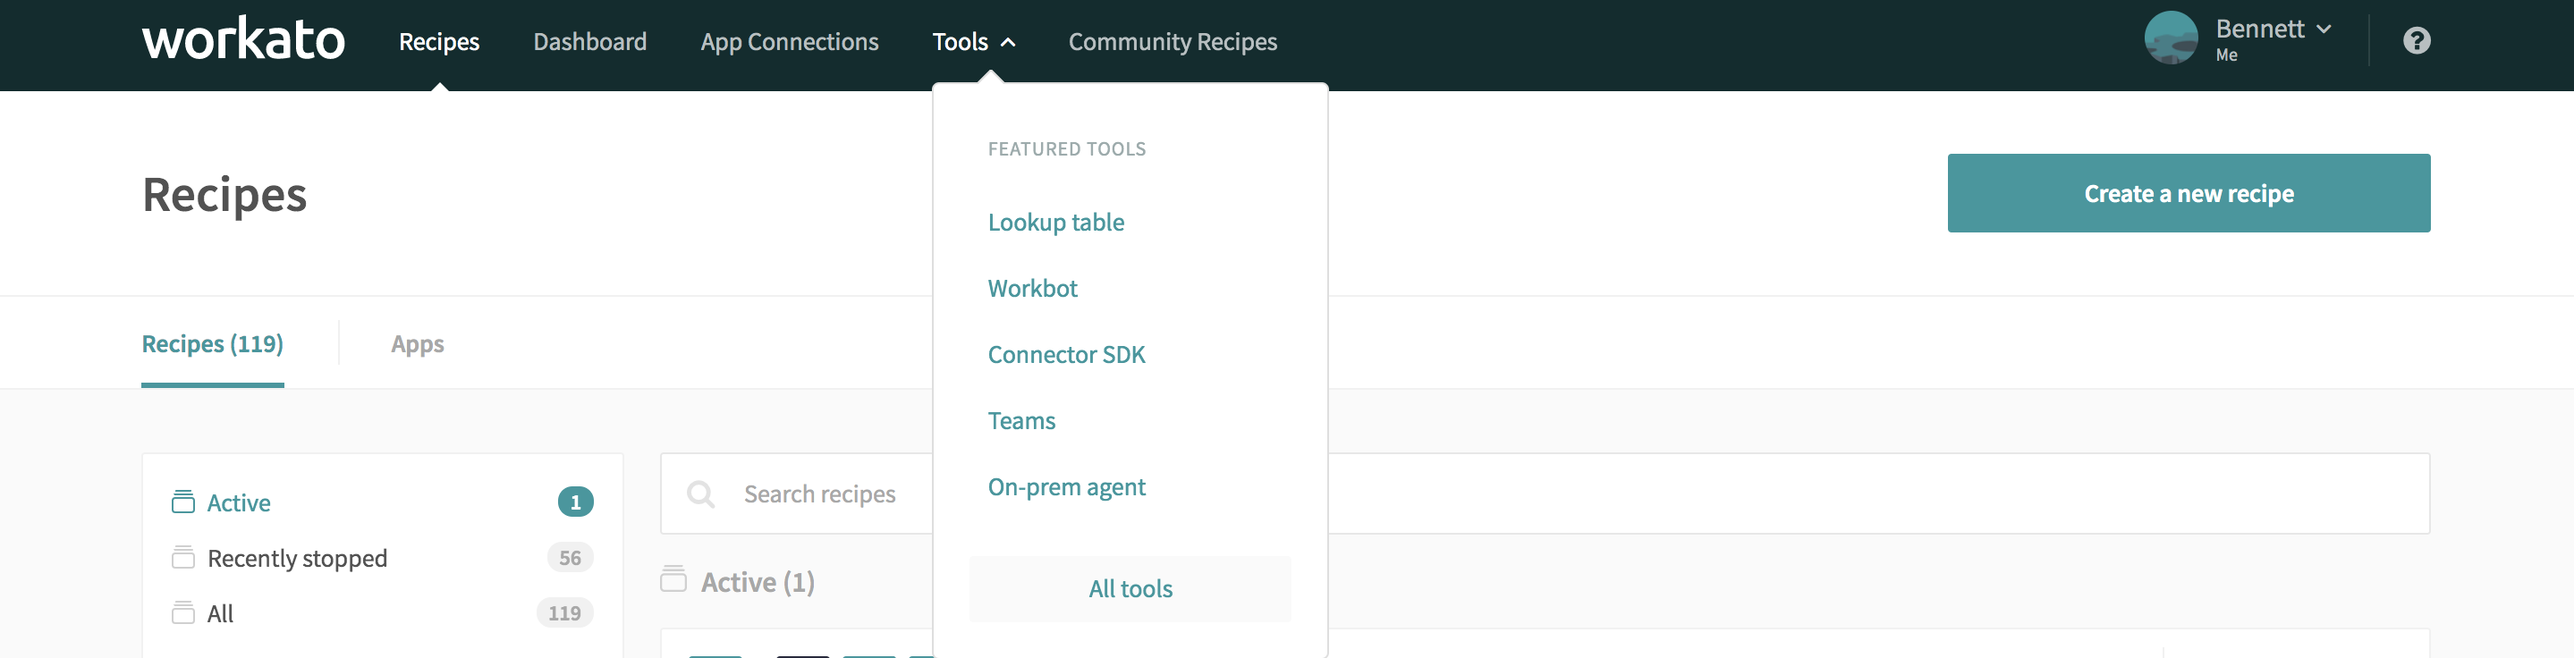
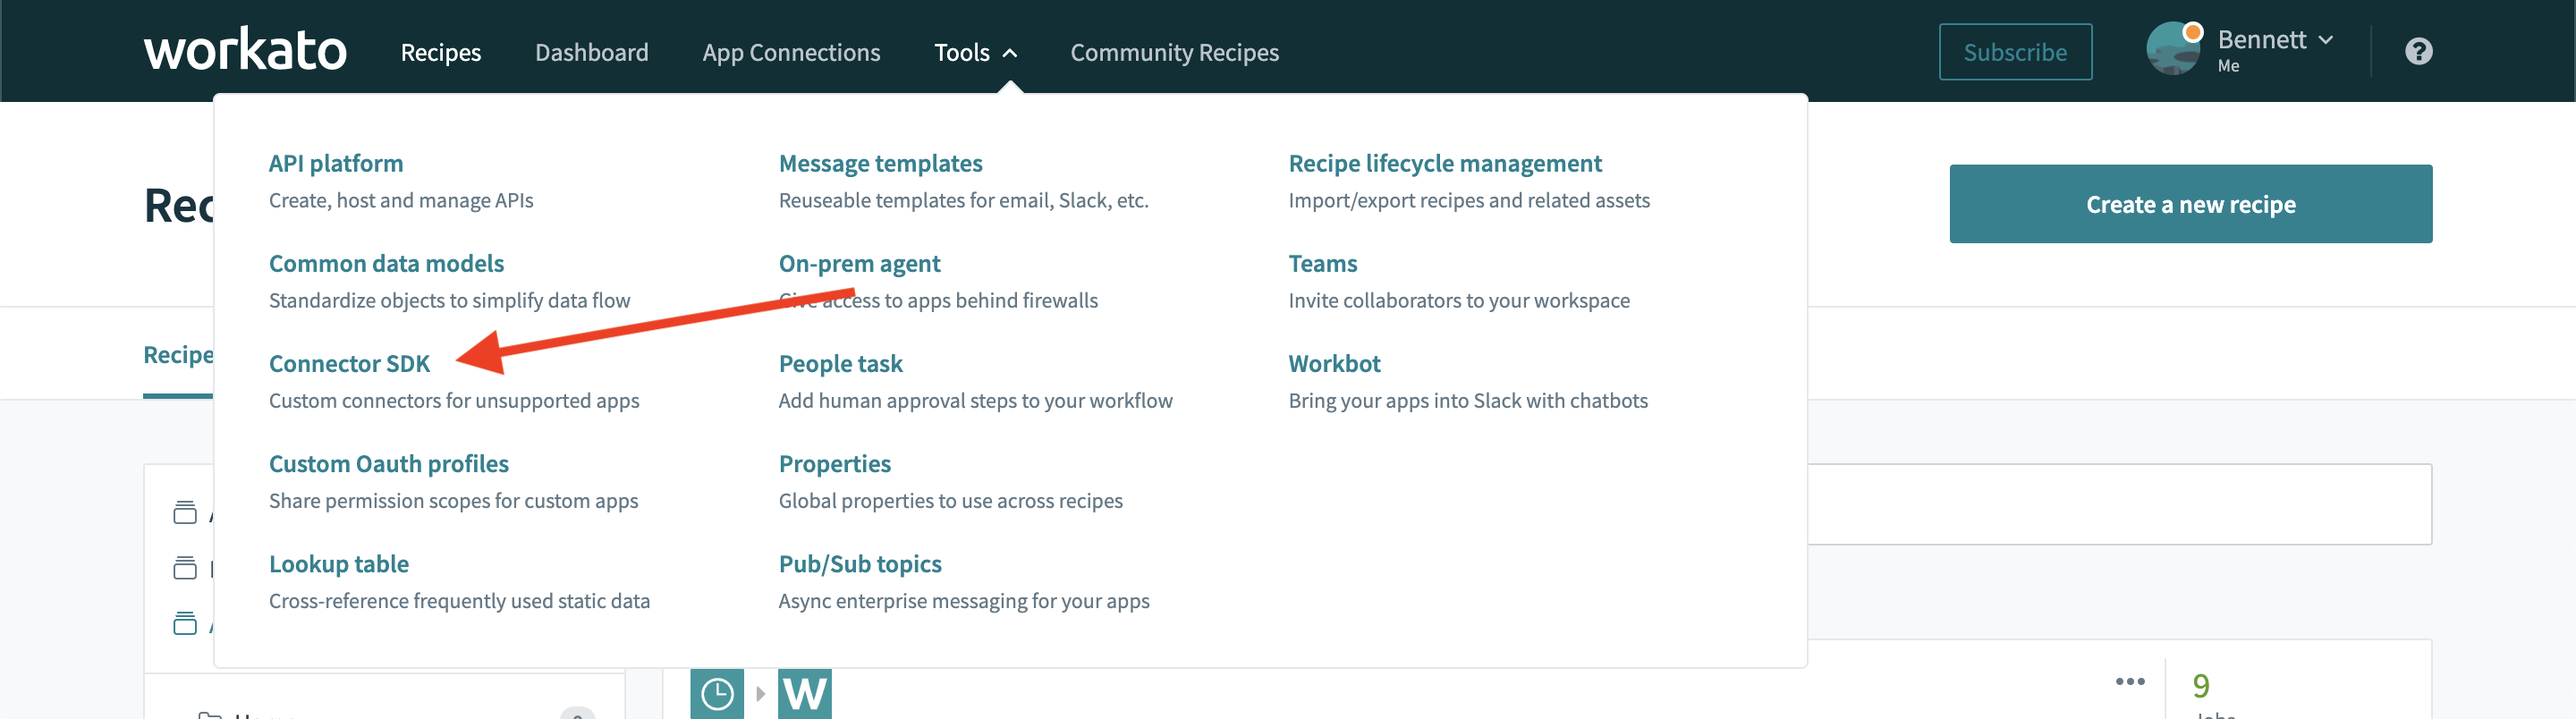
SDK versioning guide

diff --git a/developing-connectors/sdk-2/quick-Start.md b/developing-connectors/sdk-2/quick-Start.md
@@ -1,0 +1,132 @@
+---
+title: Developer program
+date: 2019-05-08 17:00:00 Z
+---
+# Using the Workato SDK Platform
+Workato's SDK platform has numerous features that enable you to build, test, develop and share your custom connector. In this article, we will be going through the basic functionalities of the platform and how you can leverage on different functionalities to make your connector development process smoother.  
+
+## Before you begin
+### Navigating to the SDK platform homepage
+In the main Workato recipes page, head over to the tools tab and click on connector SDK. This will take you to your personal registry of custom connectors - a page where you can see all custom connectors that you have built or cloned from others. If you're signed in, [click here](https://www.workato.com/custom_adapters) to be taken to that page.
+
+![Navigating to SDK](/assets/images/sdk/Navigating-to-SDK.png)
+*Located in the top navigation bar in Workato*
+
+### Creating a new custom connectors
+In the top right corner of the page, you'll see a button to create a new custom connector. Clicking this will take you to your new custom connector's home page. This page will be where you can begin writing custom connector code as well as find useful information about your connector such as the share links and version history.
+
+### Changing your connector title, description and logo
+When first creating your custom connector, it is given a default title, logo and empty description. You should populate these fields first to make it easier to search for your customer connector when looking through your personal registry in the future.
+
+Custom connector title changes can be done by clicking on the pencil icon next to the customer connector and editing the name in the box that appears. Saving your changes can be done by clicking the green tick when you are done. Clear any unsaved changes by clicking the grey cross instead.
+
+Custom connector logo changes can be done by clicking on the logo image. This should prompt your browser to open up a system upload window for you to select the logo you would want to upload. This logo will not only represent your custom connector in your personal registry but also show up as the logo when using your custom connector in recipes.
+
+Changing your description can be done by navigating to the `Settings` tab in your custom connector home page. This tab will contain information including a text input field for a description about your connector. This description will let others know more about your connector when they are deciding to clone your connector.
+
+## Introduction to version control
+Version control in the Workato SDK platform can be done directly through the UI. When you first enter a custom connector homepage, you are greeted with the source code of the latest version of the custom connector inside the code editor. This represents the latest source code that you or anyone with access in your workspace has worked on and committed into a version.
+
+Since the latest version of your custom connector may not be a version which you want your active recipes to be working off, you also have the ability to select a certain version of a custom connector in Workato to deploy and have custom connectors running off them. That way, you can have a stable version of your custom connector deployed and continue on developing before deploying the next version which you believe is stable.
+
+>You can always check the latest deployed version of a custom connector in the top right corner of a custom connector's homepage.
+
+### Editing the latest version
+The Workato SDK platform only allows you to edit the latest version of a custom connector's source code. By making changes directly in the code editor in "Source Code" tab, you are effectively making edits to the latest version. These changes will not be saved until you explicitly press the save changes button in the top left corner of the page or start debugging through the debugger console. When these changes are saved, the new custom connector source code is saved as a new latest version.
+
+### Deploying the latest version
+Workato only allows you to deploy the latest version as well. When you deploy a new version of a custom connector, this means that each recipe in your Workato account using this custom connector will begin using this version from the next job onwards. Be sure to do your relevant tests using the debugger console to make sure that your code is reliable before deploying it.
+
+Workato actively searches for any errors in your code and prevents you from deploying code with errors. This is to prevent any of your recipes from breaking. You'll be informed of the line of code which contains the error so you can jump to it and fix it.
+
+>When you first create your connector, you need to deploy a version before you can search for it while building a recipe.
+
+### Reverting to an old version
+In situations where you want to revert to an older version of your custom connector, you can easily go to the "Versions" tab of the custom connector homepage to view a table of versions. Clicking on any version will bring you to a page which contains a snapshot of the source code at that point in time as well as a snapshot of the triggers and actions based on that source code.
+
+![View old version](/assets/images/sdk/viewing-old-version.gif)
+*Click on a specific version to view details about it*
+
+When viewing a specific version, you are given the ability to restore your custom connector to this version by clicking "Restore this version" in the top right of the page. This restores the version by making a copy of that version's source code as a new latest version. You'll be able to begin editing from there or immediately deploy this version.
+
+## Using the debugger console
+Below the code editor on the "Source code" tab, you'll see our debugger console which allows you to test various portions of your custom connector before deploying it.
+
+![Debugger console](/assets/images/sdk/debugger-console.png)
+*Debugger console*
+
+This debugger console allows you to run tests on the latest version of your custom connector code. Any unsaved changes that are currently in the code editor will result in the custom connector creating a new latest version before running any tests are executed. There will be a notification to tell you when this is the case.
+
+In cases when there is an error in your latest version, the debugger console will be hidden instead. Fix the error in the line of code stated so you can start testing again.
+
+![Debugger console with error](/assets/images/sdk/debugger-console-with-error.png)
+*Debugger console when there is a syntax error*
+
+### Testing a connection
+When using the debugger console, the first thing you need to do is establish a successful connection. After defining the connection inside the source code, you'll be test this connection immediately in the connection tab of the debugger console.
+
+![Establishing connection](/assets/images/sdk/establishing-connection.gif)
+*Successfully establishing a connection*
+
+When the connection you make is successful, the debugger will immediately display a "Connection success" message to let you know. This connection you just established will be used as the connection for any tests that you execute in the debugger console following this.
+
+>You can't test actions or triggers until a successful connection is made. Without a successful connection, HTTP requests sent during triggers and actions would not be able to actively authenticate itself with the API endpoint.
+
+Find out more about the configuring a connection in our SDK and what connection types we support. [Learn more](/developing-connectors/sdk-2/authentication.md)
+
+### Testing actions and triggers
+After establishing a successful connection, you'll be able to test any actions and triggers you have defined using the debugger console.
+
+![Testing actions or triggers](/assets/images/sdk/testing-actions-triggers.png)
+*Open up the dropdowns for triggers or actions to see the full list available in your latest version*
+
+When attempting to test and action or trigger, you'll need to define the input parameters expected. This is done via a popup when pressing the "Test" button next to any action or trigger. When testing actions, we immediately populate the JSON with skeleton to help you along. When you run the action or trigger, it is executed based on the latest version in the code editor and the output is shown in the console to the right of the debugger.
+
+![Input popup](/assets/images/sdk/test-input-popup.png)
+*Action popup during testing*
+
+![Console tab](/assets/images/sdk/console-output-tab.png)
+*Output of the execute block shown in the console*
+
+Besides the input and outputs of the action or trigger, you'll also be able to see the network activity triggered such as any API requests sent. The console tab shows the result of any `puts` ruby methods that were executed during the test. This is especially useful for debugging and shows even if the test was unsuccessful due to a logic error in the action or trigger.
+
+## Sharing your connector
+After you've built and deployed your connector, you'll be able to share it with other Workato users using your share link located in the "Settings" tab. When a user clicks on your share link, they'll be brought to an install page where they can view information about the latest deployed version of your connector including descriptions, source code and the actions and triggers present.
+
+![Input popup](/assets/images/sdk/settings-page-share-link.png)
+*Share link in the settings page*
+
+![Install page](/assets/images/sdk/install-page.png)
+*Install page for custom connector*
+
+When users have reviewed your custom connector, they can choose to install it by clicking the "Install this connector" button in the top right corner. This will create an identical copy of this latest version in their own Workato account labeled as version 1.
+
+### Sharing new deployed versions with others who have already cloned your connector
+The relationship between the original parent connector and its child cloned connector is still maintained. When a new version is deployed in the parent connector, each child connector receives a notification that an update is available.
+
+![Install page](/assets/images/sdk/update-notification.png)
+*Notification shows up when there is an update for your child connector*
+
+When a child custom connector is updated, a new latest version is created. This version is identical to the latest deployed version of the parent connector. At this stage, you'll be able to view the source code, the new actions or triggers and decide whether you'd like to deploy this new version. In cases where you felt this update was unnecessary, you'd be able to revert to your own previous version in the same way you would restore an old version.
+
+## Exporting packages with custom connectors
+[Recipe lifecycle management](/recipe-development-lifecycle.md) is a tool used to export and import entire folders of recipes from a sandbox environment to a production environment in Workato. Often, recipes that you want to export from one account and import into another contain custom connectors which you have built or cloned. When exporting these recipes, Workato helps to export any custom connectors in the manifests as well.
+
+### Exporting a manifest
+When exporting a manifest, the **latest deployed version** of your custom connector that is used in recipes is exported as well. [Find out more about exporting here](/recipe-development-lifecycle/export.md)
+
+### Importing a manifest
+When importing a manifest, Workato first checks to see if you have an existing copy of the custom connector. If no existing copy is found, a new one is created with the latest deployed version as version 1. If an existing copy is found, a new latest version is created instead. In both cases, importing a manifest will immediately deploy the latest version of the custom connector for you since the recipes you are importing will be using that latest version. [Find out more about importing here](/recipe-development-lifecycle/import.md)
+
+>Be sure to explore any dependencies that your existing recipes in your production account might have when importing a manifest that overwrites a connector.
+
+## Deleting a custom connector
+A Workato account can have any number of custom connectors in its personal registry. However, in the case that you do need to delete a custom connector, you'll be prevented from doing so if there are any active running recipes using it. You'll need to stop or edit the recipes listed in order to delete this connector.
+
+![Delete prevention popup](/assets/images/sdk/prevent-delete-popup.png)
+*Stop or edit these recipes to delete a custom connector*
+
+You'll be reminded again of any stopped recipes that will be affected by the deletion of this custom connector before you are able to delete it. Any of this custom connector's cloned children will not be deleted.
+
+![Delete popup warning](/assets/images/sdk/delete-popup-warning.png)
+*Once you delete a custom connector, there is no recovering it*
